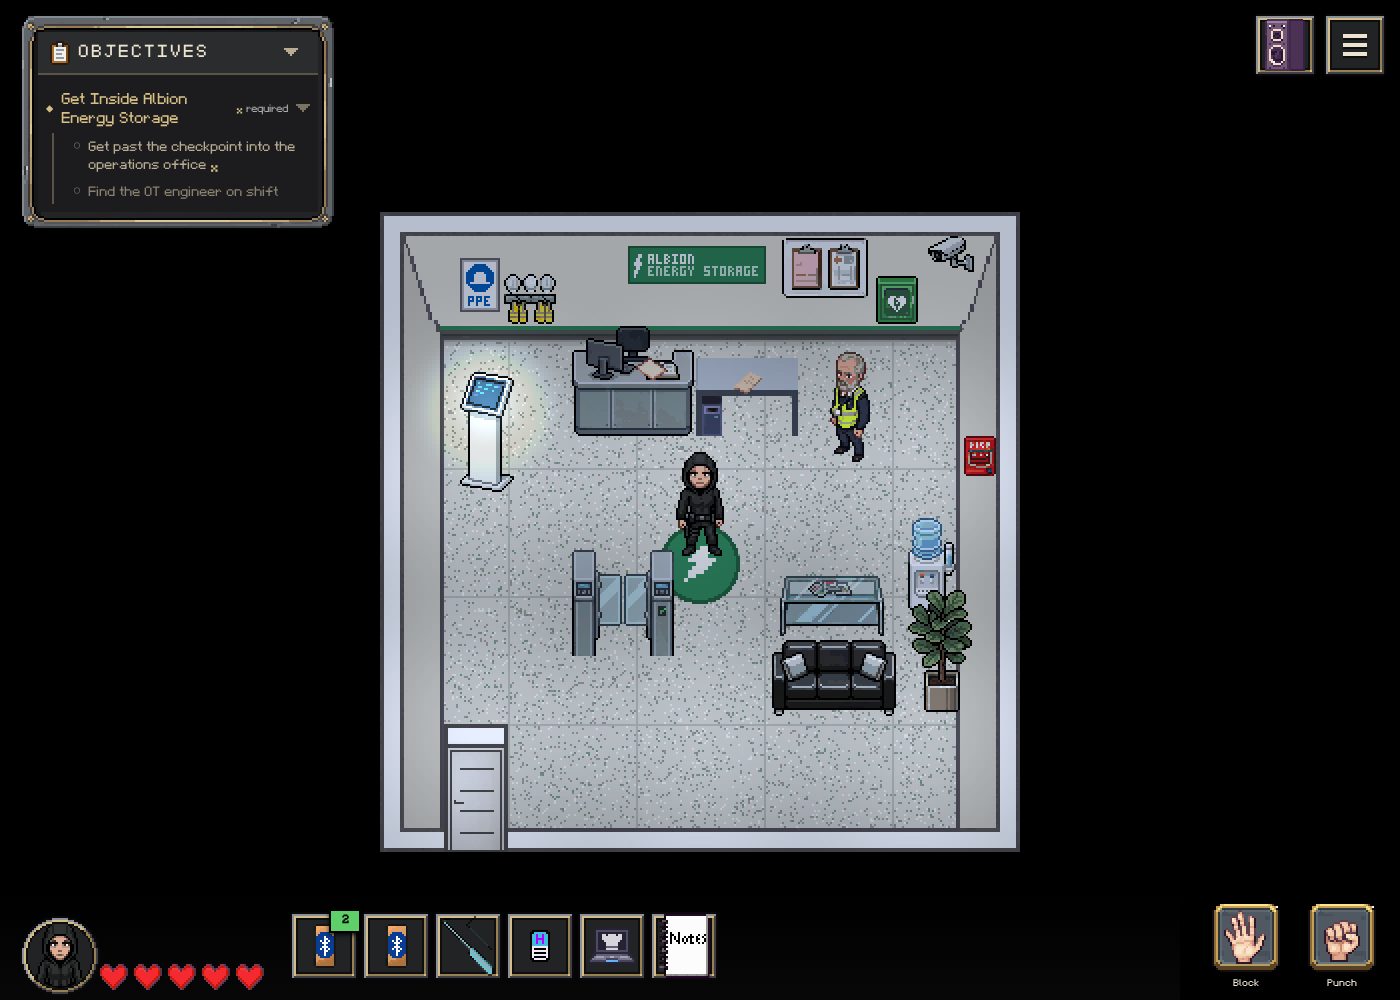
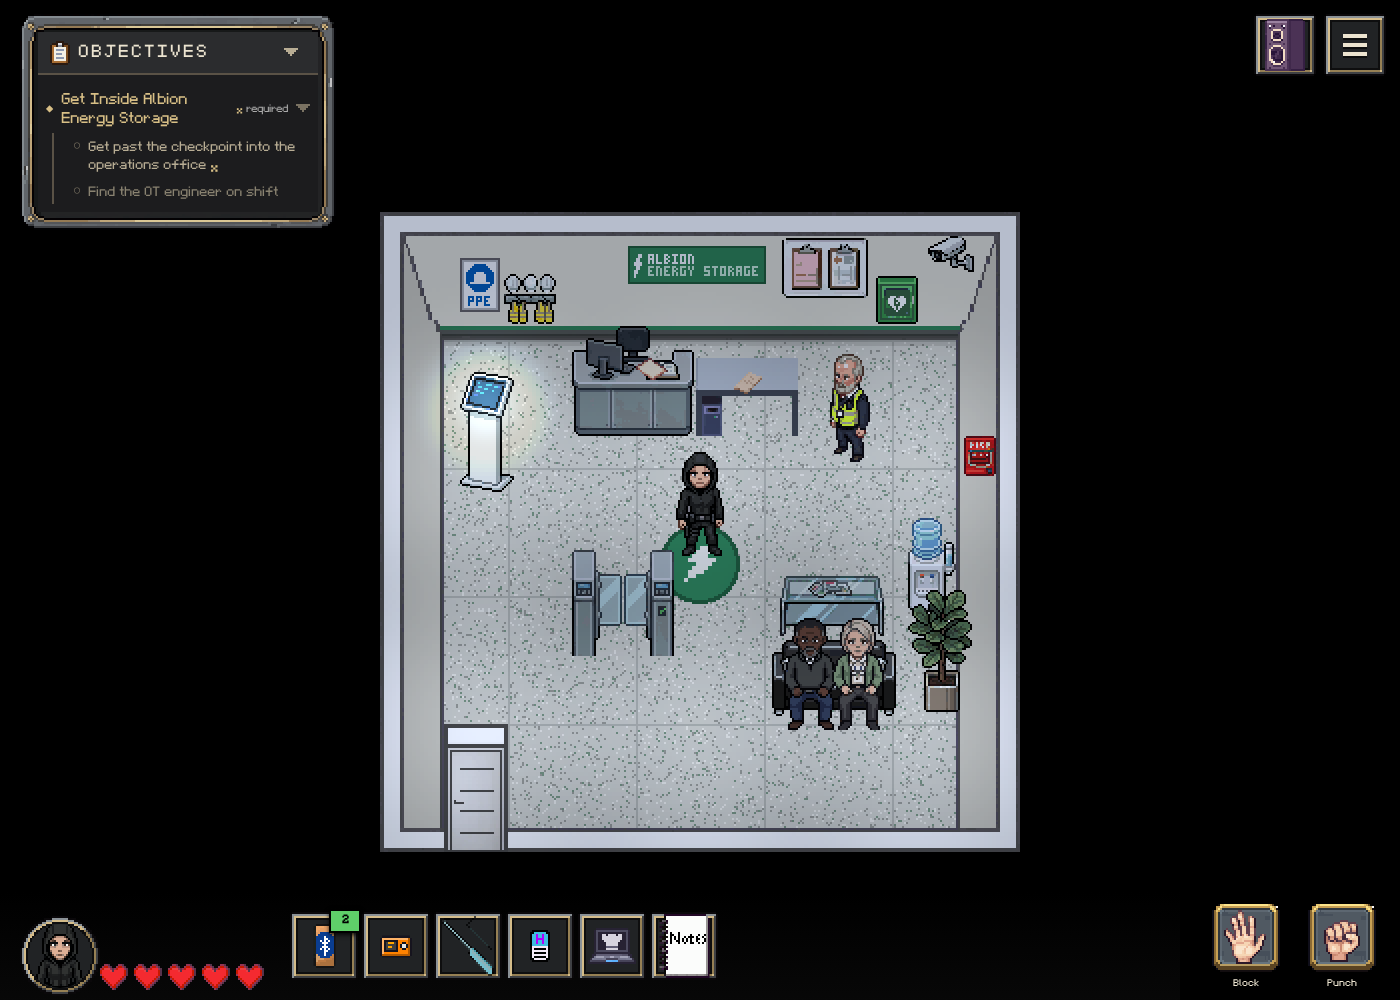
m04 walkthrough: release refresh (controls, dial pop-up, Dust for prints, crew alarm route, reception staff, Static tone tags; retake lobby and Static shots)

Changed region(s): [[0.5529, 0.62, 0.645, 0.744], [0.5836, 0.341, 0.6143, 0.465], [0.2764, 0.93, 0.3071, 0.961]]

diff --git a/_labs/safetynet/m04_critical_failure.md b/_labs/safetynet/m04_critical_failure.md
@@ -64,7 +64,7 @@ You are a SAFETYNET field agent. Albion Energy Storage stores 200 MWh of grid po
 
 You do not need any prior knowledge before you start. The field guides teach each idea as you reach it.
 
-![The entrance lobby at the start, with the guard by the desk and the checkpoint gates ahead]({{ site.baseurl }}/assets/images/safetynet/m04_critical_failure/00-starting-room.png)
+![The entrance lobby at the start, with the guard by the desk, two office staff on the sofa and the checkpoint gates ahead]({{ site.baseurl }}/assets/images/safetynet/m04_critical_failure/00-starting-room.png)
 
 1. \==action: Start the Break Escape mission **Critical Failure**==.
 2. \==action: Watch the briefing from Director Netherton, Nightshade and Agent HaX==, and ask any topics you want. Then choose how you want to play it.
@@ -85,11 +85,11 @@ Your kit at the start is:
 - the **Grid Regulator Credentials** for your cover
 - the **CyberChef Workstation**, a field laptop for decoding
 
-There is no PIN cracker this time. Some people in the plant are dangerous, and combat is real: hits cost health and there is no healing item.
+There is no PIN cracker this time. Some people in the plant are dangerous, and combat is real: hits cost health and there is no healing item. To fight, press **F** (or the Punch button) to punch, and keep pressing for a harder hit. Hold **Q** (or the Block button) to block. HaX reminds you of both when a fight starts.
 
 Agent HaX's phone is your help system. Open it and you will see options that appear only once you have reached the thing they explain:
 
-- Contextual hints, such as **[How do I get past the gate?]**, **[How do I get through the card readers?]**, **[How do I prove the screens are lying?]**, **[Relay's got the workshop card. How do I get it?]**, **[How do I get through the plant-room reader?]** and **[Voltage. How do I play this?]**. Each appears once you are in the right situation, and there is always **[Where do I stand?]** for a read of where you are.
+- Contextual hints, such as **[How do I get past the gate?]**, **[How do I get through the card readers?]**, **[How do I prove the screens are lying?]**, **[Relay's got the workshop card. How do I get it?]**, **[How do I get through the plant-room reader?]** and **[Voltage. How do I play this?]**. Each appears once you are in the right situation, and there is always **[Where do I stand?]** for a read of where you are. Once you have put operatives out of the fight, by any route, it also gives a head count of who is left.
 - Field guides, the in-universe lab sheets. Choose **[Send me a field guide.]** and pick the one you want. Each guide appears on that menu only once you have reached the challenge it covers.
 
 > Tip: There are three kinds of door in this plant. Card readers want an access card (you can copy one with the cloner). Key locks want the pick kit. The plant-room door is different from both and wants something else. If a door will not open, work out which kind it is before you try anything.
@@ -262,14 +262,14 @@ There is a **Security Equipment Locker** in the security office, south of the op
 
 **Where:** Battery Hall 1, east of the SCADA control room. **Goal:** check what the SCADA screens say against an instrument that is not on their feed.
 
-> Hint: Every screen says everything is fine. Somewhere in the first battery hall is a gauge that is not connected to any of them.
+> Hint: Every screen says everything is fine. Somewhere in the first battery hall is a gauge that is not connected to any of them. When you click it, the reading appears as a pop-up message.
 
 <details markdown="1">
 <summary>Nudge</summary>
 
 Walk through the SCADA control room into Battery Hall 1. Look at the **Analogue Thermometer: Rack Bank C Wall**. It is an old mechanical dial. Compare what it says with what the SCADA display says. If they disagree, only one of them can be trusted, and only one of them can be changed from a keyboard.
 
-**Learn it:** ==action: Read the SCADA HMI: Main Display first==, then read the dial, and write down both numbers. The gap is the lie.
+**Learn it:** ==action: Read the SCADA HMI: Main Display first==, then read the dial (the number is in the pop-up), and write down both numbers. The gap is the lie.
 
 </details>
 
@@ -386,7 +386,7 @@ To learn more in game, open your phone, choose **[Send me a field guide.]** then
 <details markdown="1">
 <summary>Nudge</summary>
 
-Use the **Fingerprint Kit** on the **Duty Round Panel** in Battery Hall 1. The kit's minigame dusts the surface, lifts the pattern and then compares it with a small set of candidate prints. If the compare step offers you two cards, one is the real owner and one is a decoy. The compare is a forensic flourish and the reader opens on a good lift of his print either way, but identifying it properly teaches you the habit.
+Use the **Fingerprint Kit** on the **Duty Round Panel** in Battery Hall 1. The panel's description says the keypad is smudged with prints, and tells you to choose **Dust for prints** to lift one. The kit's minigame dusts the surface, lifts the pattern and then compares it with a small set of candidate prints. If the compare step offers you two cards, one is the real owner and one is a decoy. The compare is a forensic flourish and the reader opens on a good lift of his print either way, but identifying it properly teaches you the habit.
 
 This is quiet work that can be done before the server work, while nothing is counting down.
 
@@ -397,7 +397,7 @@ This is quiet work that can be done before the server work, while nothing is cou
 <details markdown="1">
 <summary>Steps</summary>
 
-1. \==action: Use the Fingerprint Kit on the Duty Round Panel== in Battery Hall 1.
+1. \==action: Use the Fingerprint Kit on the Duty Round Panel== in Battery Hall 1 and choose **Dust for prints**.
 2. \==action: Dust, lift and compare in the minigame==.
 3. \==action: Walk to the plant-room door in Battery Hall 2 and try it==.
 
@@ -416,7 +416,7 @@ This is quiet work that can be done before the server work, while nothing is cou
 <details markdown="1">
 <summary>Nudge</summary>
 
-You have more than one way to resolve Voltage, and every one of them finishes the mission. Static is with him, which limits some of your options. Read what each choice offers before you pick one. Talk to him first if you want to understand what you are dealing with.
+You have more than one way to resolve Voltage, and every one of them finishes the mission. Static is with him, which limits some of your options. Read what each choice offers before you pick one. Talk to him first if you want to understand what you are dealing with. Static's replies are tagged with their tone in brackets, such as "(Press him.)" or "(Stand down.)", so you can tell a push from a retreat before you choose.
 
 The button will not arm until the hazard has been confirmed, the attack proven, and Voltage dealt with. Anything missing is listed on the refusal message.
 
@@ -427,13 +427,13 @@ To learn more in game, open your phone and choose **[Voltage. How do I play this
 <details markdown="1">
 <summary>Spoiler: how the options differ</summary>
 
-With Static still up, you can fight or go for the button. With Static down, an arrest is also offered, and the arrest has its own sub-menu. If you fight, there is a short race to his laptop shown on screen as a countdown, and Agent HaX will tell you to drop him. If you go for the button, Voltage escapes through the loading dock. If you are too slow in the race, one bank is lost but the shutdown still protects the others.
+With Static still up, you can fight or go for the button. With Static down, an arrest is also offered, and the arrest has its own sub-menu. If you fight, Voltage warns you that fighting him starts a clock on the laptop. There is a short race to it shown on screen as a countdown, and Agent HaX will tell you to drop him. If you put him down, he stays down: a knocked-out Voltage cannot be talked to, and HaX tells you where that leaves you. If you go for the button, Voltage escapes through the loading dock. If you are too slow in the race, one bank is lost but the shutdown still protects the others.
 
 None of these is scored as right or wrong. They change what the debrief says about the night.
 
 </details>
 
-> Warning: The game gives you no way to heal. If a fight is going badly, fall back before your health runs out.
+> Warning: The game gives you no way to heal. If a fight is going badly, fall back before your health runs out. Once Static turns hostile he stays a threat until he is down, and HaX warns you when it happens.
 
 ### The Shutdown and the Sweep {#hints-esd}
 
@@ -441,13 +441,13 @@ None of these is scored as right or wrong. They change what the debrief says abo
 
 ![The emergency shutdown control, ready to arm]({{ site.baseurl }}/assets/images/safetynet/m04_critical_failure/33-esd-shutdown-firing.png)
 
-> Hint: The control opens in its own window. The button is behind a hinged guard: flip the guard to arm it. If it refuses you, it says which condition is missing.
+> Hint: The control opens in its own window. The button is behind a hinged guard: flip the guard to arm it. If it refuses you, it says which condition is missing. The button is on the wall, so stand right up against it.
 
 <details markdown="1">
 <summary>Steps</summary>
 
 1. \==action: Flip the guard on the Emergency Shutdown Pushbutton== and press the button.
-2. \==action: Read Voltage's Operation Log and the marked blueprints== in the plant room.
+2. \==action: Read Voltage's Operation Log, the marked blueprints and the ENTROPY Command Laptop== in the plant room. The laptop opens as text in the game window.
 3. \==action: Go east to the loading dock== and look at the **Abandoned Extraction Go-Bag**.
 4. \==action: Open your phone and choose **[I'm done here. Bring me in.]**== when you are ready to leave. The phone rings HaX and she picks up; choose **[Bring me in.]**, then **[On my way.]**. If anything optional is still open, the game asks whether to end the mission now.
 
@@ -497,9 +497,9 @@ To learn more in game, open your phone, choose **[Send me a field guide.]** then
 Several choices run through the night and show up in the debrief and credits:
 
 - **Voltage.** Whether he is in custody or got away through the dock.
-- **Robert Vance.** Whether you told him the truth and whether he is on your side at the end.
+- **Robert Vance.** Whether you told him the truth and whether he is on your side at the end. If you told him but the evacuation alarm stayed on his desk, the credits say so.
 - **The night crew.** Whether anyone warned them, and whether a bank was lost.
-- **Civilians and the guard.** The debrief records anyone you knocked out.
+- **Civilians and the guard.** The debrief records anyone you knocked out, including the two office staff in reception. The head count in the debrief and credits includes them.
 - **Disclosure.** At the end you choose between telling everyone, keeping it classified, or saying there was an incident and holding the details back.
 
 None of these is scored as right or wrong. They change who is safe at the end and what SAFETYNET walks away with.
@@ -513,7 +513,7 @@ After you decide, ==action: finish anything you still want to read, then ring Ha
 | You see | It usually means |
 | --- | --- |
 | The cloner screen says "No keycards" | You have not copied any card yet; get a Level 1 card from Vance, the locker, or a drop |
-| A reader refuses a card | Wrong card for that door: Hall 2 wants Level 1, the workshop wants Level 2 |
+| A reader refuses a card and shows "The reader wants a Level 1 facility card." or "The reader wants a Level 2 workshop card." | Wrong card for that door: Hall 2 wants Level 1, the workshop wants Level 2 |
 | The cloner says it "didn't get a clean read" | The read was cancelled or interrupted; the conversation usually offers the choice again |
 | An operative turns hostile after a clone | They heard the cloner buzz; back off and keep your distance |
 | The plant-room door refuses you | It is a fingerprint reader, not a card reader; you need a lifted print |
@@ -544,6 +544,15 @@ The **BMS Interlock-Bypass Module** in Battery Hall 2 can also take a print. It 
 <summary>Warning the night crew</summary>
 
 Nine people are working in Hall 2. There is a way to get them out, but it needs someone with the evacuation alarm, and the phone will tell you what sounding it costs before you decide. It is your call.
+
+The alarm is on Robert Vance's desk, so he has to trust you first. Once he is on your side and you have found out something is wrong, **[Can we get the night crew out of Hall 2?]** on HaX's phone points you to him. In his own thread, Vance offers **[Is anyone working in the halls tonight?]** and then **[Sound the evacuation. Get the night crew out.]**. If a bank has already vented, it is too late and HaX says so.
+
+</details>
+
+<details markdown="1">
+<summary>The two people on the reception sofa</summary>
+
+Ibrahim Diallo (office IT) and Joanne Pell (inductions) are in early and are not on the night rota, so they are not on anyone's list. They give you no clue, no item and no task. Talk to them if you like, and watch the kettle in the operations office once you are inside: they go there for a brew, and you may overhear them. They react if trouble starts or the alarm sounds, and the debrief and credits count them among the people on site. Hurting them is recorded.
 
 </details>
 
